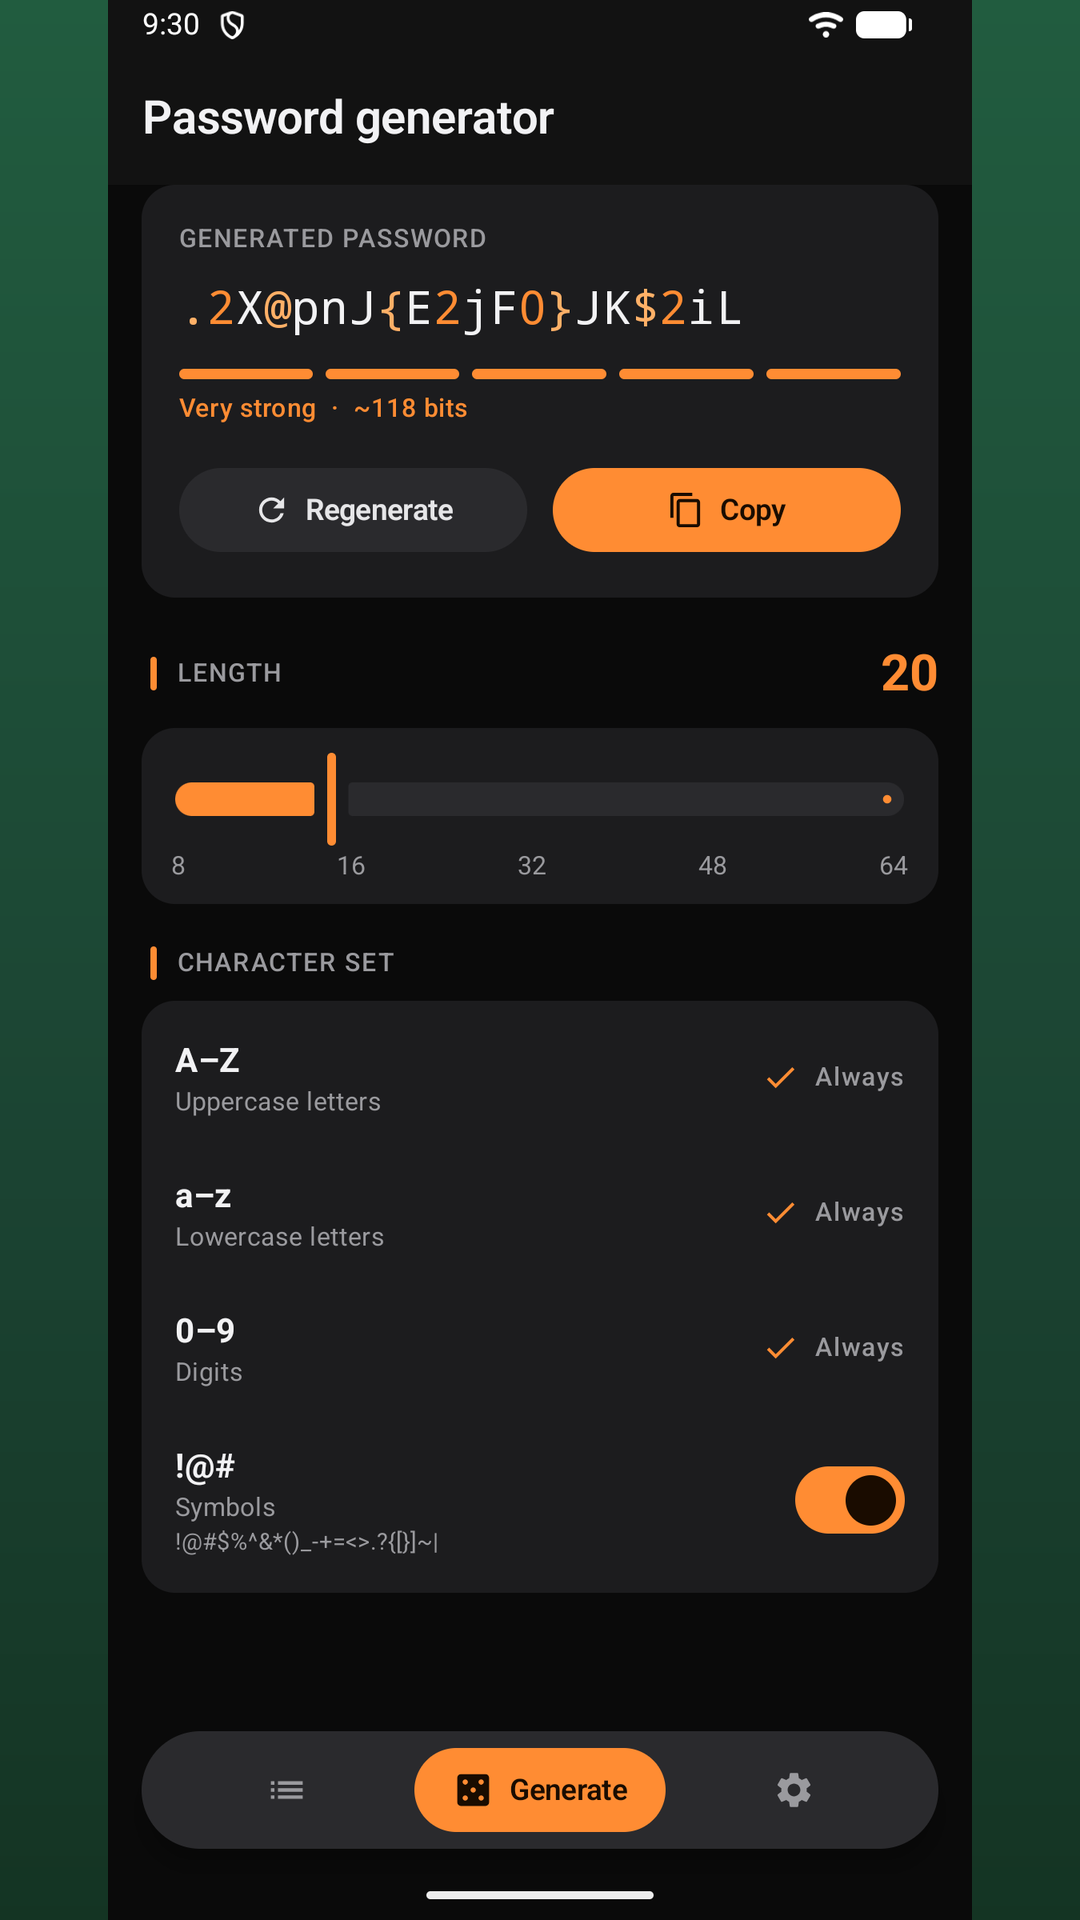
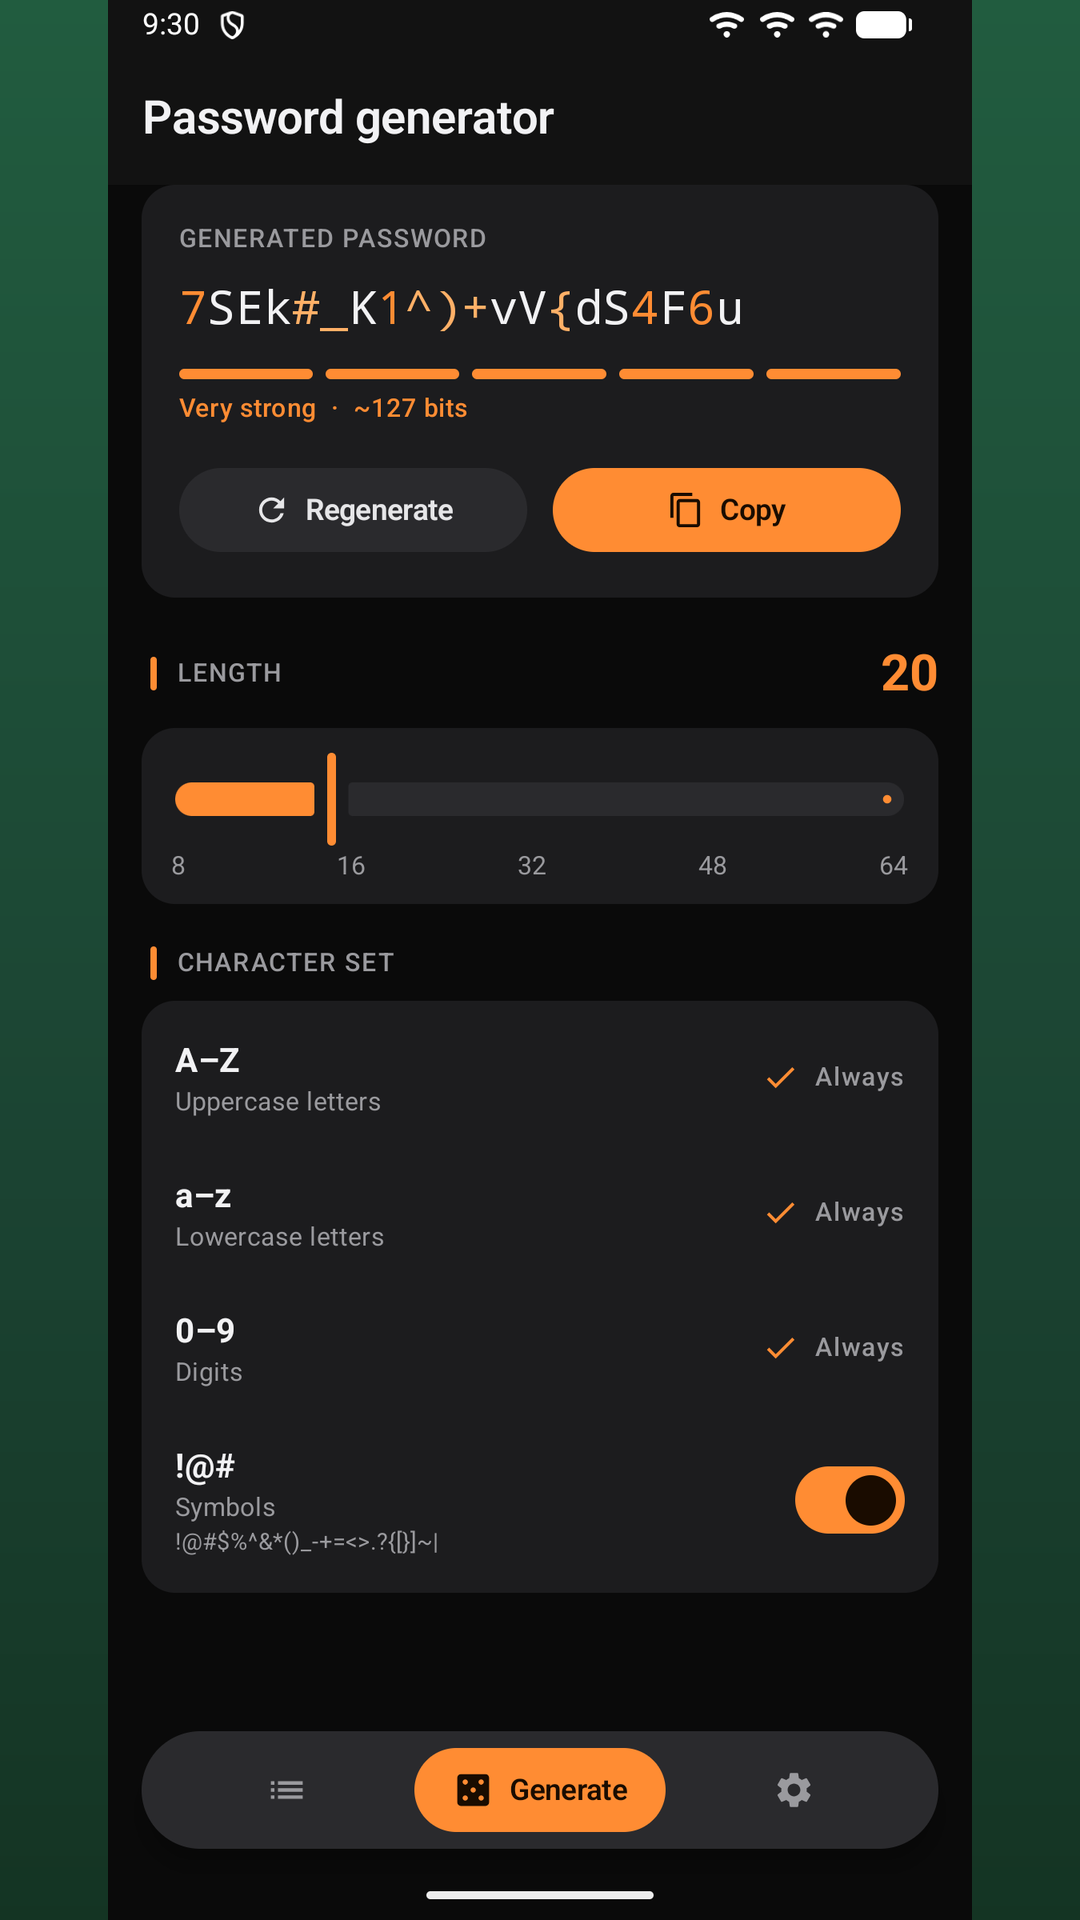
Fix the generator screen being cut off by the floating bottom bar
Reported: the generate-password screen looked vertically offset and its bottom
could not be scrolled into view.

Reproduced on an emulator at font scale 1.3, which forces the content to
overflow. Scrolling did work, but the scroll range was exactly equal to the
overflow, so there was zero clearance: at rest the Symbols row was sliced by the
floating pill bar, and scrolling to the end left it flush against it with the
switch and the allowed-symbols line still obscured.

Cause: the pill bar floats OVER the bottom of the content area rather than
sitting in the layout, so the bottom padding Scaffold reports is not enough on
its own. The list and settings screens already compensated with ad-hoc 120dp and
110dp spacers; the generator had only 24dp, and that spacer was an empty Text
whose height is zero, so it contributed just its own padding.

Replaces all three with one shared BottomBarClearance constant next to the bar
itself, so a change to the bar's size cannot leave the screens behind again, and
swaps the empty-Text spacers for real Spacers.

Verified on device at the same font scale that reproduced it: scroll travel went
from 277px to 470px and the last row now clears the bar. The generator store
screenshot was re-captured.

150 unit tests pass; release, bundle, androidTest and lint all green.

Claude-Session: https://claude.ai/code/session_01TycwfeQFVLmGhrP5CCJ982

Changed region(s): [[0.1833, 0.1562, 0.6722, 0.2188], [0.6722, 0.0, 0.7333, 0.0312]]

diff --git a/app/src/main/java/com/acesoftph/offlinepasswordwallet/ui/screens/PasswordGeneratorScreen.kt b/app/src/main/java/com/acesoftph/offlinepasswordwallet/ui/screens/PasswordGeneratorScreen.kt
@@ -5,6 +5,8 @@ import androidx.compose.foundation.layout.Column
 import androidx.compose.foundation.layout.Row
 import androidx.compose.foundation.layout.fillMaxSize
 import androidx.compose.foundation.layout.fillMaxWidth
+import androidx.compose.foundation.layout.Spacer
+import androidx.compose.foundation.layout.height
 import androidx.compose.foundation.layout.padding
 import androidx.compose.foundation.layout.size
 import androidx.compose.foundation.rememberScrollState
@@ -46,6 +48,7 @@ import androidx.lifecycle.compose.collectAsStateWithLifecycle
 import com.acesoftph.offlinepasswordwallet.di.ServiceLocator
 import com.acesoftph.offlinepasswordwallet.password.PasswordGenerator
 import com.acesoftph.offlinepasswordwallet.settings.AppSettings
+import com.acesoftph.offlinepasswordwallet.ui.components.BottomBarClearance
 import com.acesoftph.offlinepasswordwallet.ui.components.ColoredPassword
 import com.acesoftph.offlinepasswordwallet.ui.components.SectionHeader
 import com.acesoftph.offlinepasswordwallet.ui.components.StrengthMeter
@@ -294,7 +297,7 @@ fun PasswordGeneratorScreen(
                     }
                 },
             )
-            Text("", Modifier.padding(bottom = 24.dp))
+            Spacer(Modifier.height(BottomBarClearance))
         }
     }
 }

diff --git a/app/src/main/java/com/acesoftph/offlinepasswordwallet/ui/screens/VaultListScreen.kt b/app/src/main/java/com/acesoftph/offlinepasswordwallet/ui/screens/VaultListScreen.kt
@@ -42,6 +42,7 @@ import androidx.lifecycle.compose.collectAsStateWithLifecycle
 import com.acesoftph.offlinepasswordwallet.data.model.VaultEntry
 import com.acesoftph.offlinepasswordwallet.data.repository.VaultState
 import com.acesoftph.offlinepasswordwallet.di.ServiceLocator
+import com.acesoftph.offlinepasswordwallet.ui.components.BottomBarClearance
 import com.acesoftph.offlinepasswordwallet.ui.components.EntryAvatar
 import com.acesoftph.offlinepasswordwallet.ui.components.SectionHeader
 import com.acesoftph.offlinepasswordwallet.ui.components.WalletCard
@@ -135,7 +136,7 @@ fun VaultListScreen(
                 LazyColumn(
                     modifier = Modifier.fillMaxWidth().testTag("entry_list"),
                     verticalArrangement = Arrangement.spacedBy(8.dp),
-                    contentPadding = androidx.compose.foundation.layout.PaddingValues(bottom = 120.dp),
+                    contentPadding = androidx.compose.foundation.layout.PaddingValues(bottom = BottomBarClearance),
                 ) {
                     grouped.forEach { (initial, group) ->
                         item(key = "hdr_$initial") { SectionHeader(initial) }

diff --git a/app/src/main/java/com/acesoftph/offlinepasswordwallet/ui/screens/SettingsScreen.kt b/app/src/main/java/com/acesoftph/offlinepasswordwallet/ui/screens/SettingsScreen.kt
@@ -47,6 +47,7 @@ import com.acesoftph.offlinepasswordwallet.password.PasswordGenerator
 import com.acesoftph.offlinepasswordwallet.security.BiometricAuthenticator
 import com.acesoftph.offlinepasswordwallet.settings.AppSettings
 import com.acesoftph.offlinepasswordwallet.settings.AutoLockTimeout
+import com.acesoftph.offlinepasswordwallet.ui.components.BottomBarClearance
 import com.acesoftph.offlinepasswordwallet.ui.components.SectionHeader
 import com.acesoftph.offlinepasswordwallet.ui.components.SettingRow
 import com.acesoftph.offlinepasswordwallet.ui.components.WalletCard
@@ -296,7 +297,7 @@ fun SettingsScreen(
                 style = MaterialTheme.typography.bodySmall,
                 color = MaterialTheme.colorScheme.onSurfaceVariant,
                 textAlign = TextAlign.Center,
-                modifier = Modifier.fillMaxWidth().padding(top = 24.dp, bottom = 110.dp),
+                modifier = Modifier.fillMaxWidth().padding(top = 24.dp, bottom = BottomBarClearance),
             )
         }
     }

diff --git a/app/src/main/java/com/acesoftph/offlinepasswordwallet/ui/components/WalletBottomBar.kt b/app/src/main/java/com/acesoftph/offlinepasswordwallet/ui/components/WalletBottomBar.kt
@@ -32,6 +32,17 @@ import androidx.compose.ui.text.font.FontWeight
 import androidx.compose.ui.unit.dp
 import androidx.compose.material.icons.automirrored.filled.List
 
+/**
+ * Space a scrolling screen must leave at the end of its content so the last item
+ * clears the floating bar.
+ *
+ * The bar floats OVER the bottom of the content area rather than sitting in the
+ * layout, so Scaffold's reported bottom padding is not enough on its own: without
+ * this the final row ends up sliced by the bar, and because the scroll range is
+ * exactly the overflow there is no travel left to rescue it.
+ */
+val BottomBarClearance: androidx.compose.ui.unit.Dp = 128.dp
+
 /** The three top-level destinations reachable from the bottom bar. */
 enum class WalletTab(val label: String, val icon: ImageVector) {
     ENTRIES("Entries", Icons.AutoMirrored.Filled.List),

diff --git a/app/src/main/java/com/acesoftph/offlinepasswordwallet/ui/screens/ChangeCredentialsScreens.kt b/app/src/main/java/com/acesoftph/offlinepasswordwallet/ui/screens/ChangeCredentialsScreens.kt
@@ -4,6 +4,8 @@ import androidx.compose.foundation.layout.Arrangement
 import androidx.compose.foundation.layout.Column
 import androidx.compose.foundation.layout.fillMaxSize
 import androidx.compose.foundation.layout.fillMaxWidth
+import androidx.compose.foundation.layout.Spacer
+import androidx.compose.foundation.layout.height
 import androidx.compose.foundation.layout.padding
 import androidx.compose.foundation.rememberScrollState
 import androidx.compose.foundation.shape.RoundedCornerShape
@@ -209,7 +211,7 @@ fun ChangeSecurityAnswersScreen(onBack: () -> Unit) {
             if (done) {
                 Button(onClick = onBack, modifier = Modifier.fillMaxWidth()) { Text("Done") }
             }
-            Text("", Modifier.padding(bottom = 24.dp))
+            Spacer(Modifier.height(24.dp))
         }
     }
 }
